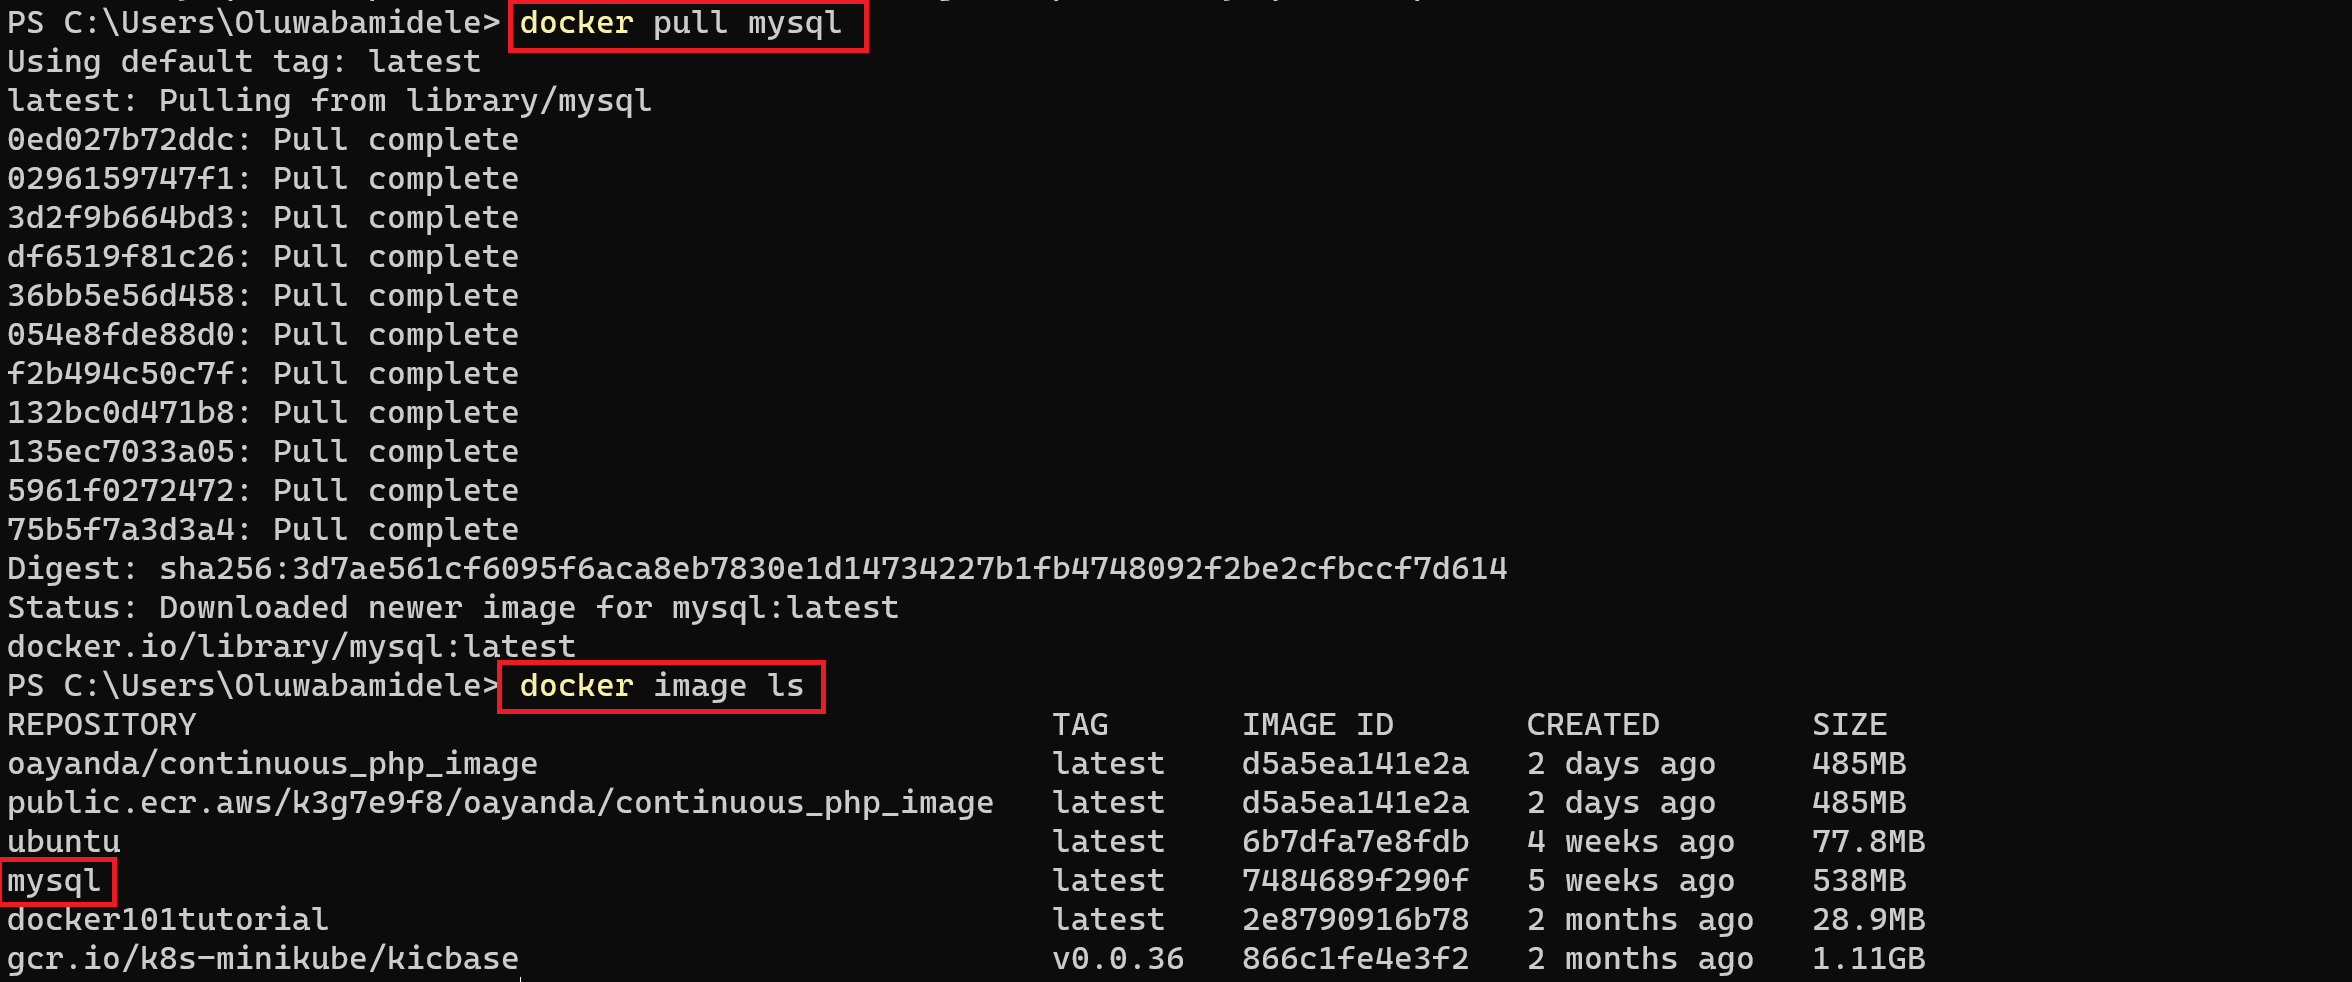
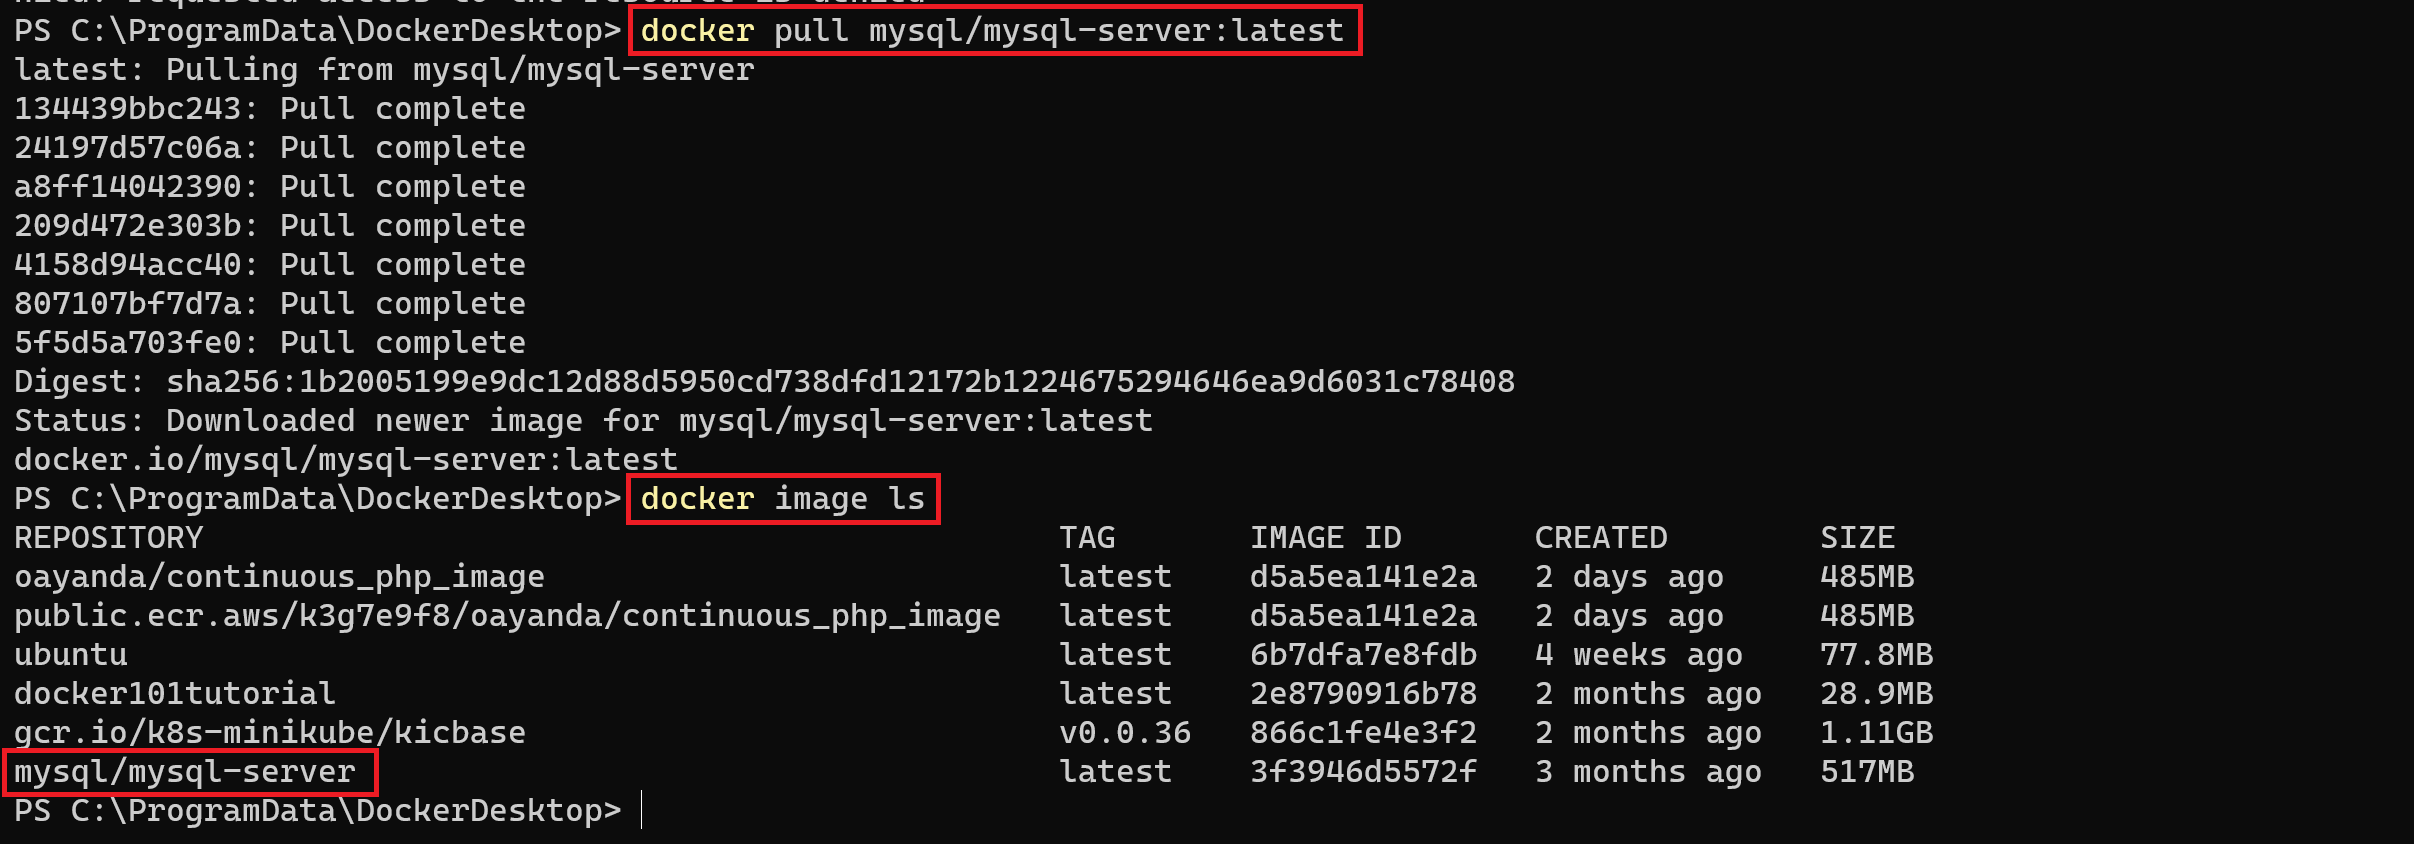
updated

Changed region(s): [[0.0, 0.0, 0.838, 1.0], [0.4345, 0.6161, 0.4656, 0.6469]]

diff --git a/project_20.md b/project_20.md
@@ -25,7 +25,7 @@ In the termainal,
 ```bash
 # Search for the available MySql docker image in the docker hub registry
  
- docker search mysql
+ docker search mysql-server
  ```
 
  ![docker search](./images/1.png)
@@ -34,7 +34,7 @@ Next, we will pull the first on the list, which is the offical and latest versio
 
 ```bash
 # Download docker image locally from docker hub
-docker pull mysql
+docker pull mysql/mysql-server:latest
 ```
 
 ![docker image pull](./images/2.png)
@@ -47,7 +47,8 @@ Once you have the docker image, move on to deploy a new MySQL container
 
 ```bash
 # Create a mysql container
-docker run --name=mysqldb -e MYSQL_ROOT_PASSWORD=dontusethisinprod -d mysql
+docker run --name=mysqldb -e MYSQL_ROOT_PASSWORD=dontusethisinprod -d mysql/mysql-server:latest
+
 
 # List all running containers
 docker ps -a
@@ -69,6 +70,72 @@ docker exec -it mysqldb mysql -uroot -p
 
 ![mysql](./images/4.png)
 
+We are going to use the second method below, so go ahead remove this container.
+
+```bash
+docker rm -f <your-container-name>
+```
+
 **_Second Method_**
 
-After connecting to the MySql container, we could go on can configure the schema and prepare it for the Frontend PHP application but this means we will be using the default bridge network. However, it better to create our own private network which enable us to control the network cidr.
+After connecting to the MySql container, we could go on can configure the schema and prepare it for the Frontend PHP application but this means we will be using the default bridge network which is the defualt way for connection for all containers. However, it better to create our own private network which enable us to control the network cidr.
+
+Let's go ahead and create a network
+
+```bash
+# Create a new bridge network
+
+docker network create --subnet=172.15.10.0/24 tooling_app_network
+```
+
+![private](./images/5.png)
+
+This time, let us create an environment variable to store the root password:
+
+```bash
+# Save the password using environment variable
+export MYSQL_PW=password
+
+# verify the environment variable is created
+echo $MYSQL_PW
+```
+
+> If you are using Window OS, run above command in your git bash terminal whicj comes with visual studio code editor.
+
+![private](./images/6.png)
+
+To avoid name conflit, remember to remove the initial contianer as stated above.Now, pull the image and run the container, all in one command like this below
+
+```bash
+docker run --network tooling_app_network -h mysqlserverhost --name=mysql-server -e MYSQL_ROOT_PASSWORD=$MYSQL_PW  -d mysql/mysql-server:latest
+```
+
+_Flags used_
+
+- -d runs the container in detached mode
+- --network connects a container to a network
+- -h specifies a hostname
+
+![private](./images/7.png)
+
+It is best practice not to connect to the MySQL server remotely using the root user. Therefore, we will create an SQL script that will create a user we can use to connect remotely.
+
+Create a file and name it ***create_user.sql*** and add the below code in the file
+
+ ```bash
+ CREATE USER '<username>'@'%' IDENTIFIED BY '<password>'; 
+ GRANT ALL PRIVILEGES ON * . * TO '<username>'@'%';
+ ```
+
+ Replace the username and password to your values.
+
+![private](./images/script.png)
+
+Nnow, run the script to create the new user. Enure you are in the directory ***create_user.sql*** file is located.  
+
+```bash
+docker exec -i mysql-server mysql -uroot -p$MYSQL_PW < create_user.sql
+```
+![private](./images/8.png)
+
+## Prepare Database Schema
